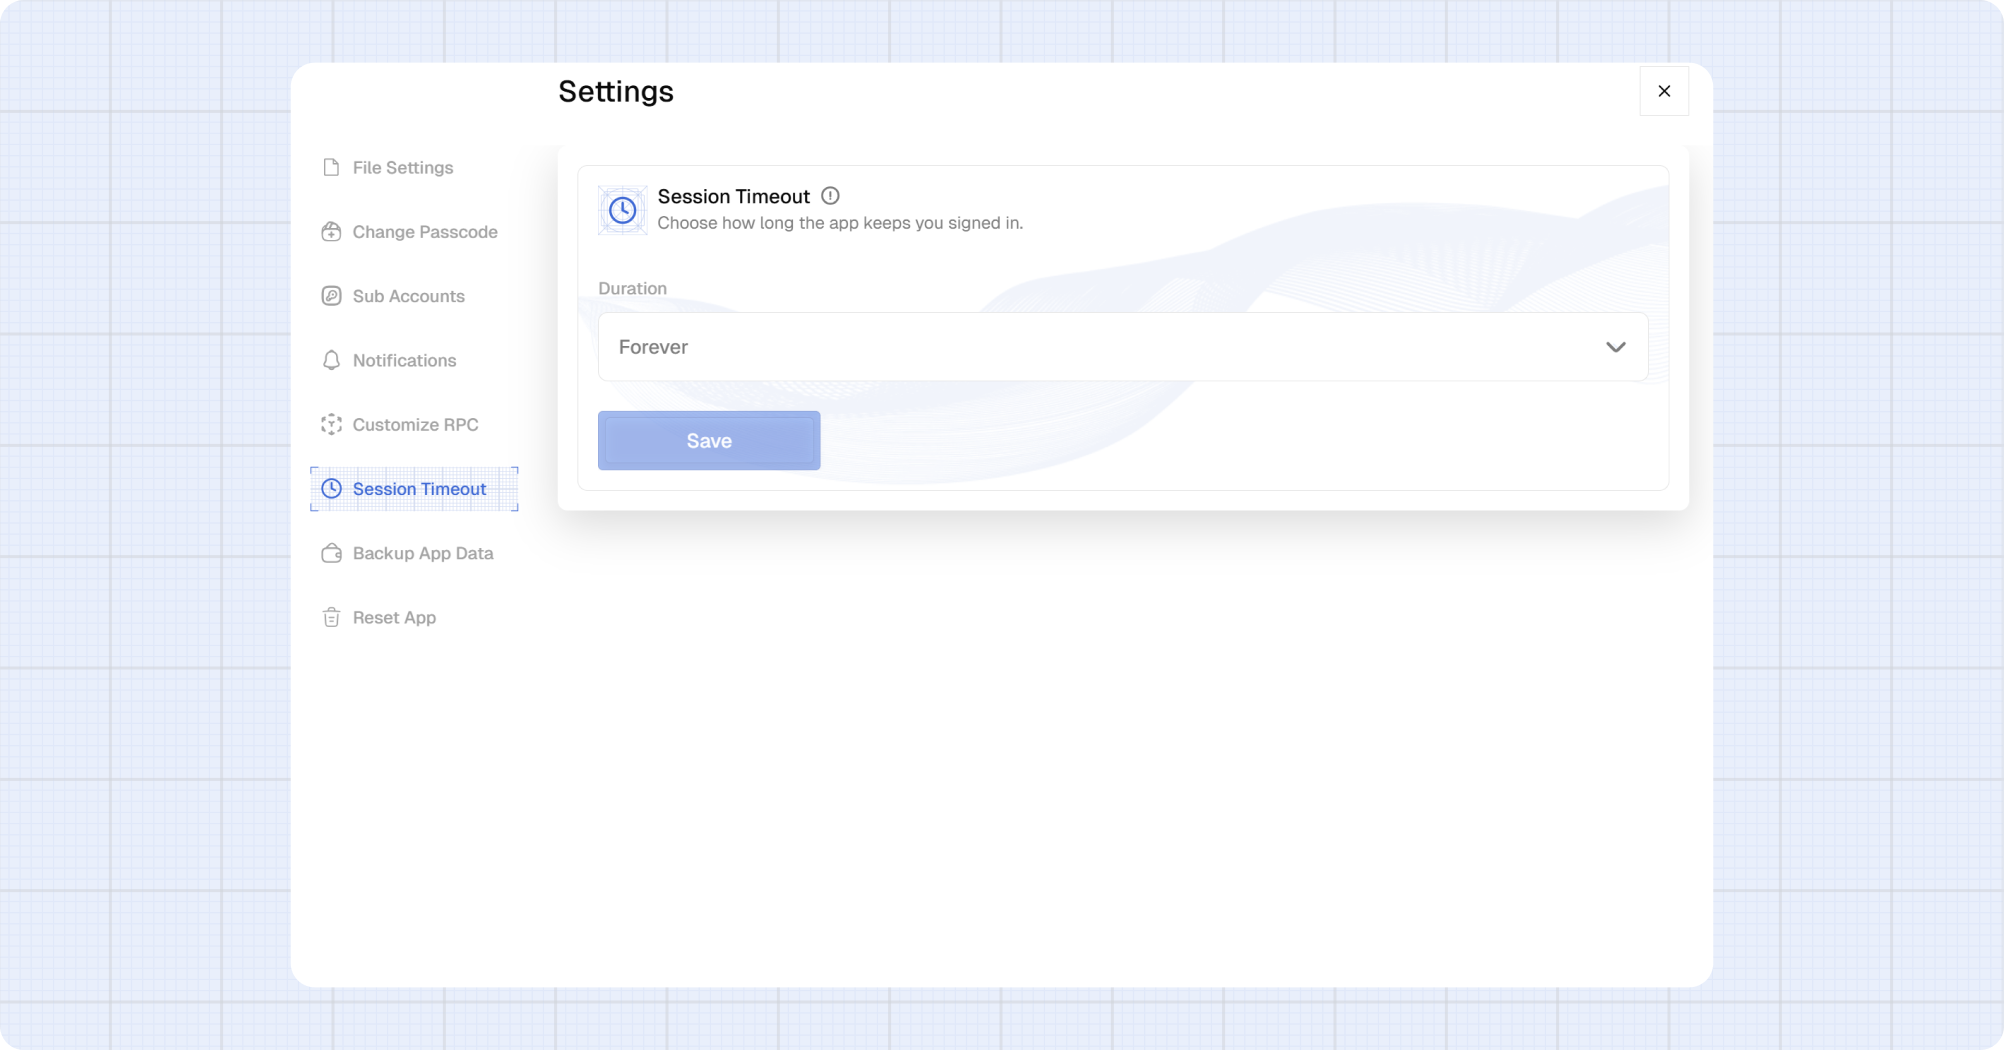
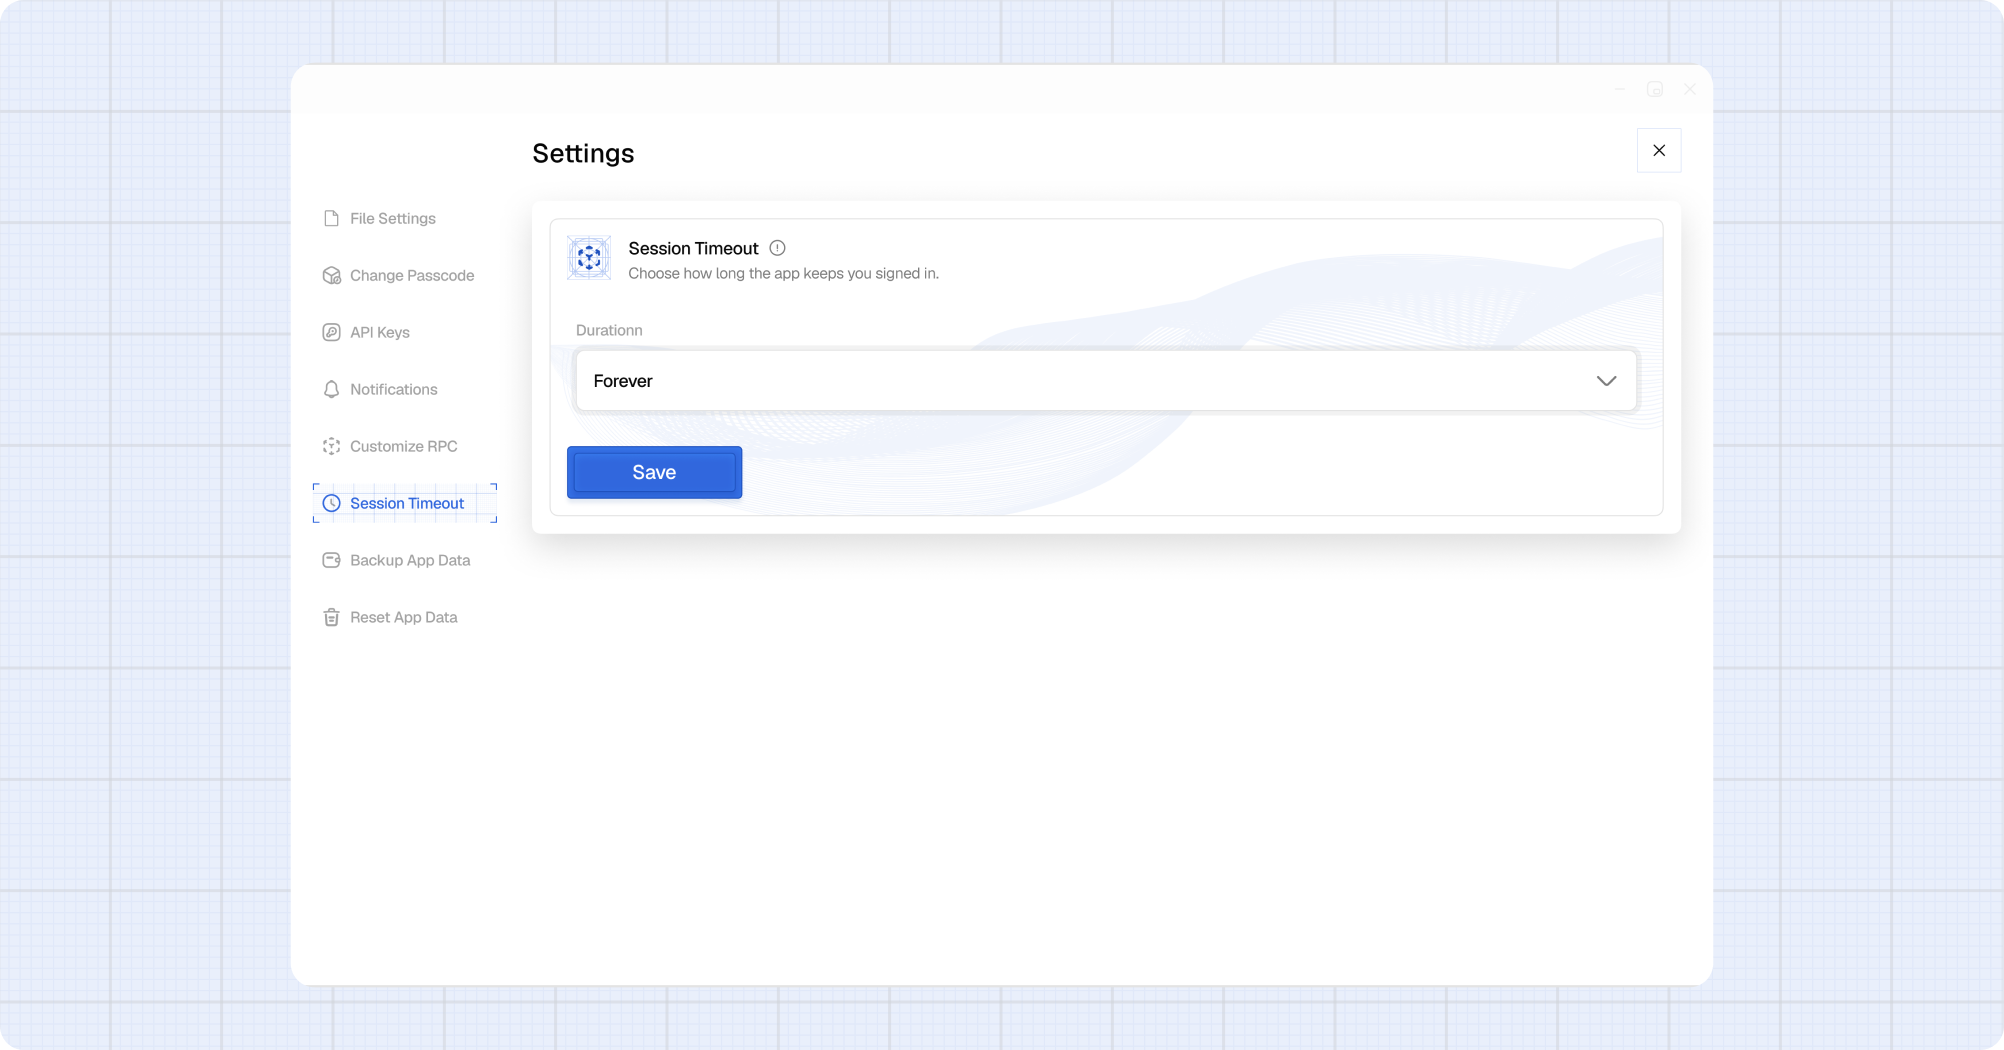
Update API Key Documentation

diff --git a/docs/use/desktop/settings.md b/docs/use/desktop/settings.md
@@ -60,40 +60,40 @@ If files are edited or removed, those changes will be synced automatically.</p>
 </>
 </DocAccordionItem>
 
-## Sub Accounts
+## API Keys
 
 <DocAccordionItem value="sub-accounts">
   <>
-  Sub Accounts
+  API Keys
   </>
   <>
-    <p>Sub-accounts let you assign upload and delete rights. They use their own seed, yet all files still belong to your main account. We’re currently using these sub-accounts to upload files to S3 storage.</p>
+    <p>API keys allow for S3 operations and do not allow for any other party to have access to your account.</p>
 
     <Ordered>
       <li>Click on the <BgStyledIconWithText text="Settings" icon="Settings" />.</li>
-      <li>Click <BgStyledIconWithText text="Sub Accounts" icon="KeySquare" />.</li>
+      <li>Click <BgStyledIconWithText text="API Keys" icon="KeySquare" />.</li>
     </Ordered>
 
     ![Sub accounts table](/img/desktop/settings/settings-sub-accounts.png)
 
-    ### Create a New Sub Account
+    ### Create a New API Key
 
     <Ordered>
-      <li>Click on <BgStyledText>New Sub Account</BgStyledText>.</li>
-      <li>Enter the address and select the role assigned to this account.</li>
-      <li>Click on the <BgStyledText>Create Sub Account</BgStyledText> button.</li>
+      <li>Click on <BgStyledText>Add API Key</BgStyledText>.</li>
+      <li>Enter the address and select the role assigned to this API Key.</li>
+      <li>Click on the <BgStyledText>Add API Key</BgStyledText> button.</li>
     </Ordered>
 
     ![Create sub account modal](/img/desktop/settings/settings-sub-account-create.png)
 
-    ### Generate Sub Account
+    ### Generate API Key
 
     <Ordered>
-      <li>Click on <BgStyledText>Generate New Account</BgStyledText>.</li>
-      <li>Save the generated access key.</li>
-      <li>Click on <BgStyledText>Add as Sub Account</BgStyledText> to make this sub account.</li>
-      <li>Assign a role and click on <BgStyledText>Create Sub Account</BgStyledText> to share it to the account.</li>
-      <li>Enter the passcode to save the seed of the sub account.</li>
+      <li>Click on <BgStyledText>Generate New API Key</BgStyledText>.</li>
+      <li>Save the account API key.</li>
+      <li>Select the permission for the API Key.</li>
+      <li>Click on <BgStyledText>Add API Key</BgStyledText> to save.</li>
+      <li>Enter the Seed phrase and passcode.</li>
     </Ordered>
 
     ![Generate sub account modal](/img/desktop/settings/settings-sub-account-generate.png)
